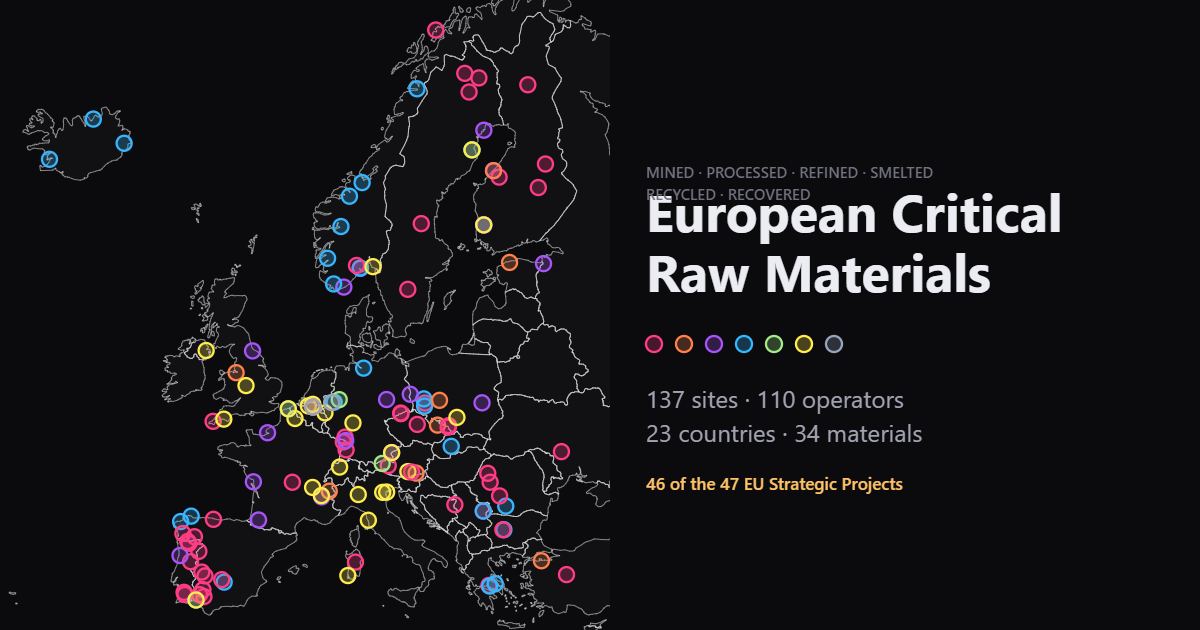
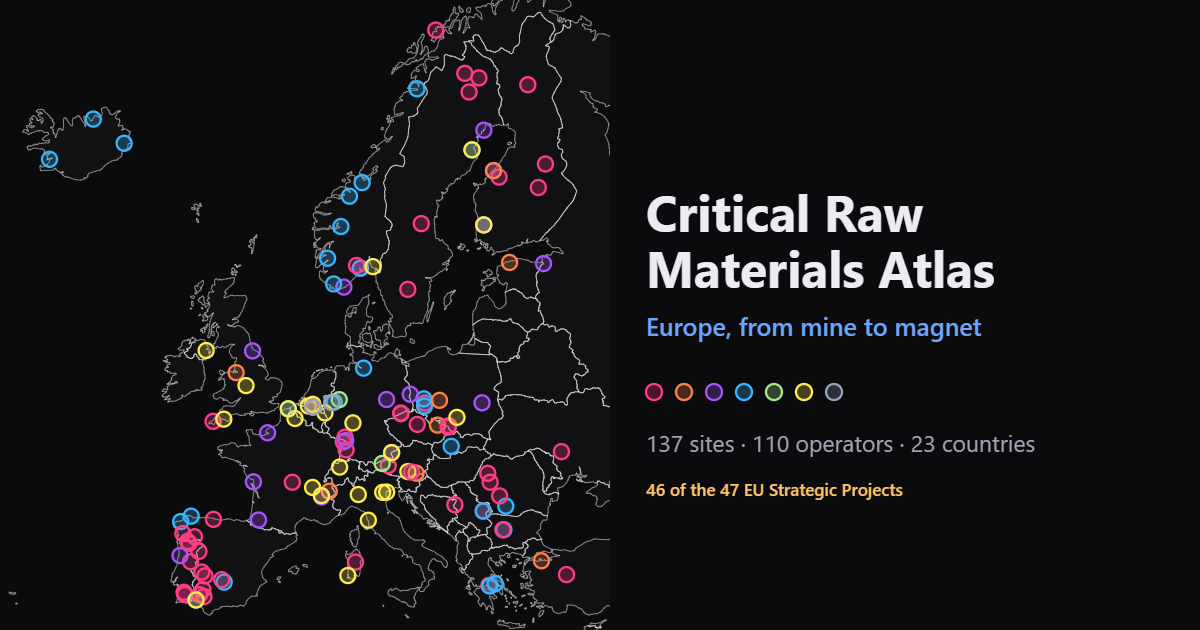
Rename to Critical Raw Materials Atlas
"Map" undersold it. The page carries material factsheets, production charts,
company profiles and an encyclopedia alongside the map itself, which is an
atlas. "Critical raw materials" stays verbatim because it is the Critical Raw
Materials Act's own term and the phrase anyone looking for this would type.

The acronym is deliberately not in the name. CRM means one thing in this
industry and something else entirely to everyone else, and a title is a bad
place to lose the reader.

"Europe, from mine to magnet" is the line under it. Mine to magnet is a real
phrase in the rare earths trade, and it spans the whole chain — extraction to
finished component — in four words without saying "supply chain". It replaces
the old subtitle, which listed the seven stages that the map's own key already
names.

Changed in the page title, the header, the og: and twitter: tags on both pages,
the README, the stylesheet banner, and the two scripts that print the name to a
terminal. assets/og-cover.png is redrawn, since the old name was baked into the
image: the title sets on two lines with the new strapline beneath it in the
accent colour, and the eyebrow listing the stages is gone now that the name and
the line carry it.

diff --git a/index.html b/index.html
@@ -3,7 +3,7 @@
 <head>
 <meta charset="utf-8">
 <meta name="viewport" content="width=device-width, initial-scale=1">
-<title>European Critical Raw Materials Map</title>
+<title>Critical Raw Materials Atlas — Europe, from mine to magnet</title>
 <meta name="description" content="Where critical raw materials are mined, processed, refined, smelted, recycled and recovered across Europe — filterable by material, country and stage of the supply chain.">
 <link rel="canonical" href="https://vincenzo-forlini.github.io/European-critical-network-map/">
 <link rel="icon" type="image/svg+xml" href="assets/icon.svg">
@@ -15,8 +15,8 @@
      change and re-run the URL through LinkedIn's Post Inspector, or the first
      share keeps the empty card for good. -->
 <meta property="og:type" content="website">
-<meta property="og:site_name" content="European Critical Raw Materials Map">
-<meta property="og:title" content="European Critical Raw Materials Map">
+<meta property="og:site_name" content="Critical Raw Materials Atlas">
+<meta property="og:title" content="Critical Raw Materials Atlas — Europe, from mine to magnet">
 <meta property="og:description" content="Where the EU's critical raw materials are mined, processed, refined, smelted, recycled and recovered across Europe. Filter by material, country, stage or EU Strategic Project.">
 <meta property="og:url" content="https://vincenzo-forlini.github.io/European-critical-network-map/">
 <meta property="og:image" content="https://vincenzo-forlini.github.io/European-critical-network-map/assets/og-cover.png">
@@ -25,7 +25,7 @@
 <meta property="og:image:height" content="630">
 <meta property="og:image:alt" content="A dark map of Europe scattered with coloured markers, one per site, coloured by stage of the supply chain.">
 <meta name="twitter:card" content="summary_large_image">
-<meta name="twitter:title" content="European Critical Raw Materials Map">
+<meta name="twitter:title" content="Critical Raw Materials Atlas — Europe, from mine to magnet">
 <meta name="twitter:description" content="Where the EU's critical raw materials are mined, processed, refined, smelted, recycled and recovered across Europe. Filter by material, country, stage or EU Strategic Project.">
 <meta name="twitter:image" content="https://vincenzo-forlini.github.io/European-critical-network-map/assets/og-cover.png">
 
@@ -40,8 +40,8 @@
 
   <header class="header">
     <div class="header__brand">
-      <h1 class="header__title">European Critical Raw Materials</h1>
-      <span class="header__sub">Mining, processing, refining, smelting, recycling and recovery</span>
+      <h1 class="header__title">Critical Raw Materials Atlas</h1>
+      <span class="header__sub">Europe, from mine to magnet</span>
     </div>
     <div class="header__spacer"></div>
     <div class="header__actions">

diff --git a/about.html b/about.html
@@ -3,7 +3,7 @@
 <head>
 <meta charset="utf-8">
 <meta name="viewport" content="width=device-width, initial-scale=1">
-<title>About — European Critical Raw Materials Map</title>
+<title>About — Critical Raw Materials Atlas</title>
 <link rel="canonical" href="https://vincenzo-forlini.github.io/European-critical-network-map/about.html">
 <link rel="icon" type="image/svg+xml" href="assets/icon.svg">
 
@@ -14,8 +14,8 @@
      change and re-run the URL through LinkedIn's Post Inspector, or the first
      share keeps the empty card for good. -->
 <meta property="og:type" content="website">
-<meta property="og:site_name" content="European Critical Raw Materials Map">
-<meta property="og:title" content="About — European Critical Raw Materials Map">
+<meta property="og:site_name" content="Critical Raw Materials Atlas">
+<meta property="og:title" content="About — Critical Raw Materials Atlas">
 <meta property="og:description" content="How the dataset was built, where each figure comes from, and what it does not claim to be.">
 <meta property="og:url" content="https://vincenzo-forlini.github.io/European-critical-network-map/about.html">
 <meta property="og:image" content="https://vincenzo-forlini.github.io/European-critical-network-map/assets/og-cover.png">
@@ -24,7 +24,7 @@
 <meta property="og:image:height" content="630">
 <meta property="og:image:alt" content="A dark map of Europe scattered with coloured markers, one per site, coloured by stage of the supply chain.">
 <meta name="twitter:card" content="summary_large_image">
-<meta name="twitter:title" content="About — European Critical Raw Materials Map">
+<meta name="twitter:title" content="About — Critical Raw Materials Atlas">
 <meta name="twitter:description" content="How the dataset was built, where each figure comes from, and what it does not claim to be.">
 <meta name="twitter:image" content="https://vincenzo-forlini.github.io/European-critical-network-map/assets/og-cover.png">
 

diff --git a/css/styles.css b/css/styles.css
@@ -1,5 +1,5 @@
 /* ===========================================================================
-   European Critical Raw Materials Map
+   Critical Raw Materials Atlas
    Dark-first. Colour on this page means one thing only: stage of the supply
    chain. Everything else stays greyscale so the markers never compete.
    =========================================================================== */

diff --git a/README.md b/README.md
@@ -1,6 +1,8 @@
-# European Critical Raw Materials Map
+# Critical Raw Materials Atlas
 
-An interactive map of where the EU's critical raw materials are **mined, processed, refined,
+**Europe's critical raw materials, from mine to magnet.**
+
+An interactive atlas of where the EU's critical raw materials are **mined, processed, refined,
 smelted, recycled and recovered** across Europe — and which companies operate each site.
 
 Filter by material, by country and by stage of the supply chain. Click a site to see where it
